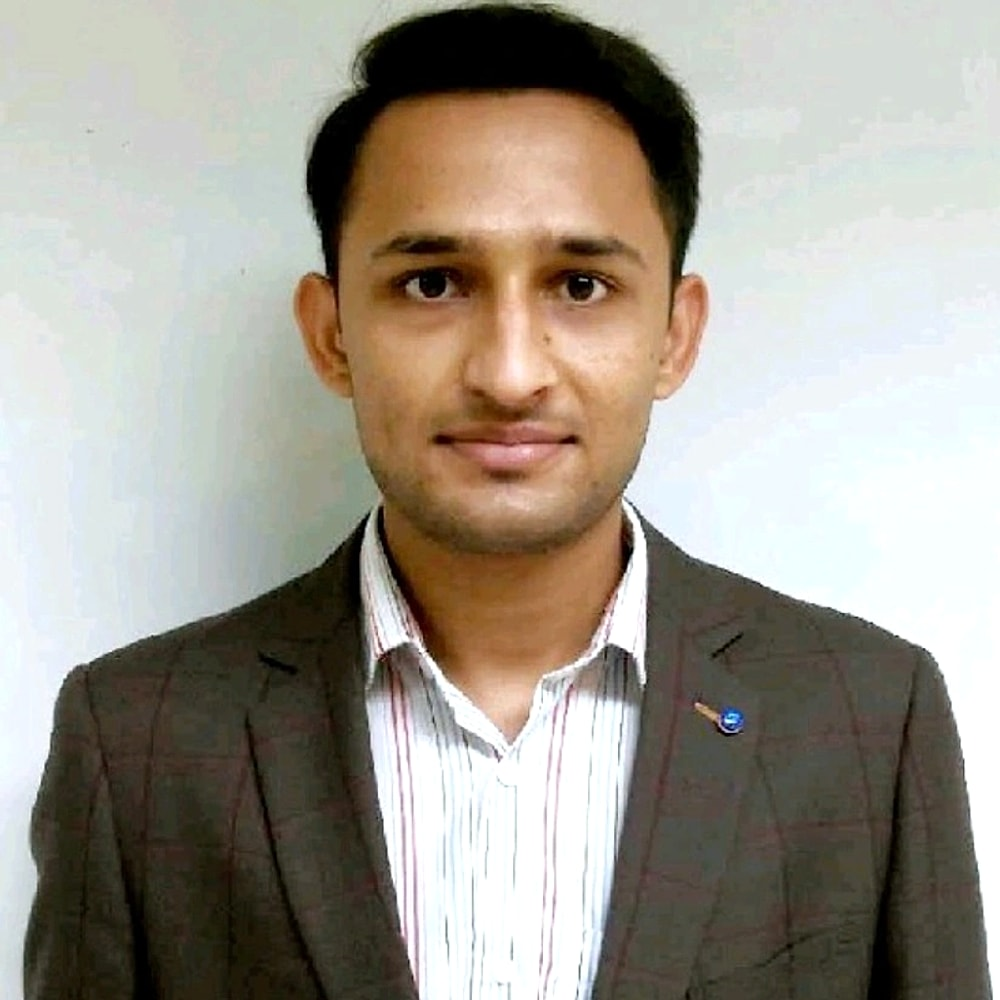
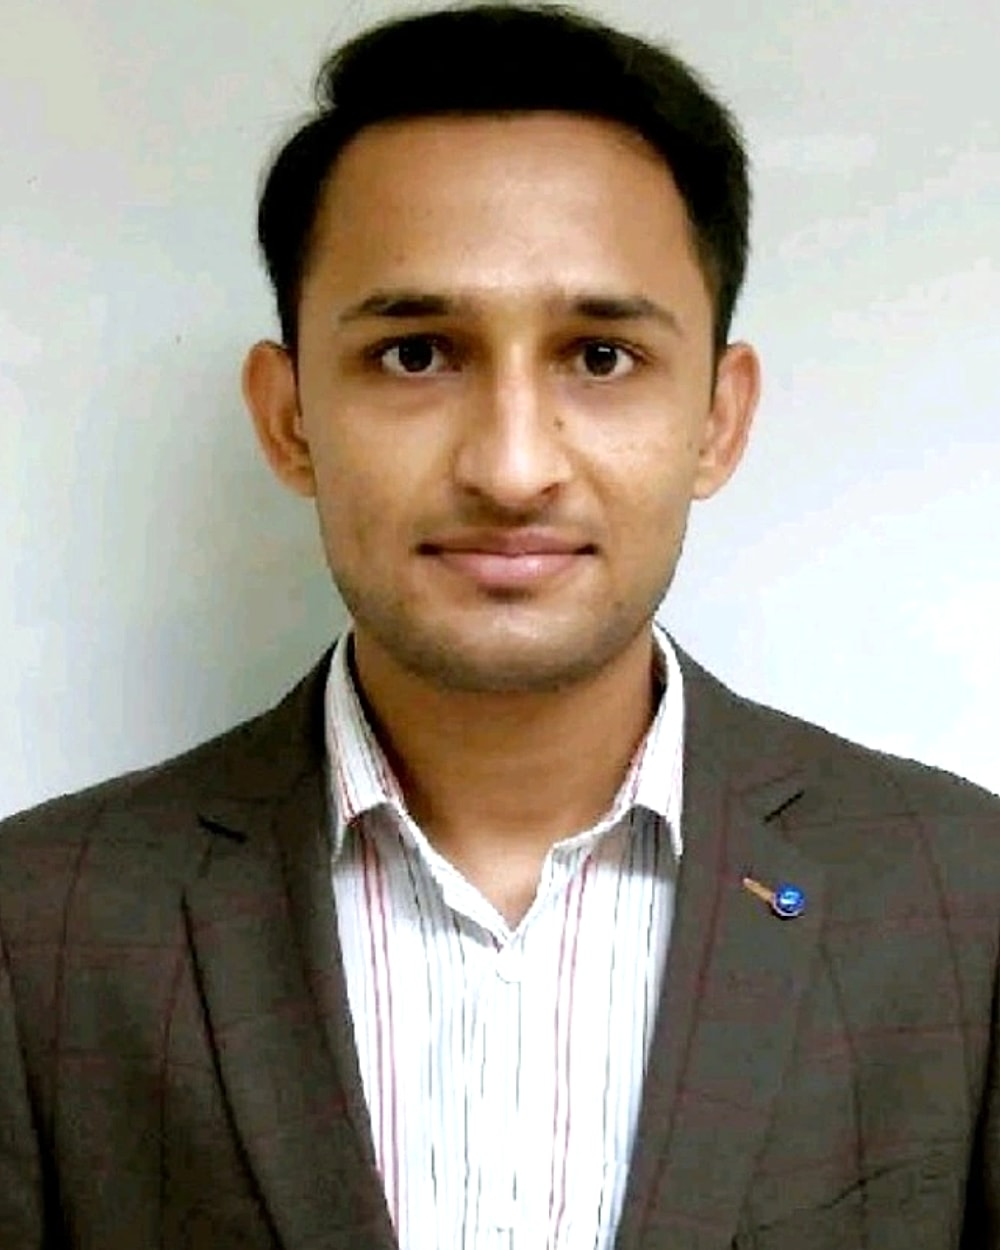
fix: editorial 4:5 portrait + isolate build dir from dev cache
Re-crop the portrait to a 4:5 editorial framing (face larger, sides trimmed)
so it reads less like a square ID photo; update /about Image dimensions to
match. Add NEXT_DIST_DIR support so ad-hoc production builds write to a
separate dir and can't corrupt a running dev server's .next cache (root cause
of the intermittent "Cannot read properties of undefined (reading 'call')").

Changed region(s): [[0.0, 0.0, 1.0, 1.0], [0.682, 0.961, 0.744, 1.0]]

diff --git a/src/app/about/page.tsx b/src/app/about/page.tsx
@@ -19,7 +19,7 @@ export default function AboutPage() {
               src="/ikram.jpg"
               alt="Portrait of Ikram Sattar"
               width={1000}
-              height={1000}
+              height={1250}
               className="h-auto w-full grayscale-[0.15]"
               priority
             />
